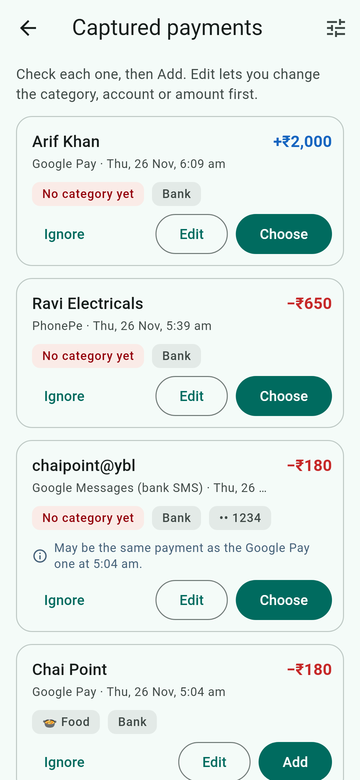
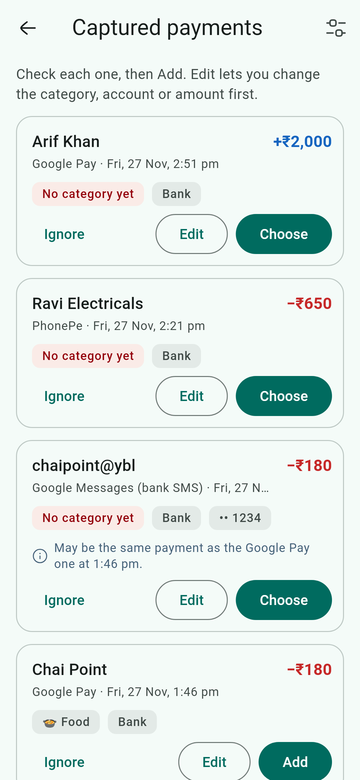
docs: refresh README screenshots and describe how capture works now

diff --git a/test_screens/screens_test.dart b/test_screens/screens_test.dart
@@ -200,7 +200,7 @@ class _FakeChannel extends CaptureChannel {
   @override
   bool get supported => true;
   @override
-  Future<bool> isEnabled() async => false;
+  Future<bool> isEnabled() async => true;
   @override
   Future<Set<String>?> packages() async => null;
   @override
@@ -217,6 +217,11 @@ void main() {
       tester.view.physicalSize = const Size(1080, 2340);
       tester.view.devicePixelRatio = 3;
       addTearDown(tester.view.reset);
+      // Draw screens as a finger sees them, without keyboard focus rings.
+      FocusManager.instance.highlightStrategy = FocusHighlightStrategy.alwaysTouch;
+      // Tests draw shadows as solid outlines; draw real ones as a phone does.
+      debugDisableShadows = false;
+      addTearDown(() => debugDisableShadows = true);
       late FinanceRepository repo;
       await tester.runAsync(() async {
         Intl.defaultLocale = 'en_IN';
@@ -346,7 +351,7 @@ void main() {
       await shot('21_insights');
       nav.push(MaterialPageRoute<void>(builder: (_) => const AutoBackupPage()));
       await shot('22_auto_backup');
-      await tester.drag(find.byType(ListView).last, const Offset(0, -700));
+      await tester.drag(find.byType(ListView).last, const Offset(0, -420));
       await shot('23_drive_backup');
     });
   }

diff --git a/README.md b/README.md
@@ -21,7 +21,7 @@
 <p align="center">
   <img src="docs/screenshots/daily.png" width="200" alt="Daily view">
   <img src="docs/screenshots/captured.png" width="200" alt="Captured payments">
-  <img src="docs/screenshots/stats.png" width="200" alt="Stats">
+  <img src="docs/screenshots/insights.png" width="200" alt="Monthly insights">
   <img src="docs/screenshots/daily-dark.png" width="200" alt="Daily view in dark mode">
 </p>
 
@@ -31,7 +31,7 @@
 |---|---|
 | 📸 **Screenshot** | Pick a Google Pay, PhonePe, Paytm or bank receipt. Gemini reads the amount, payee, date and UPI reference, or on-device OCR does when Gemini is off or offline, and the screenshot stays on the entry. A payment history screenshot adds every payment on it in one go, with ones you already have left unticked. The same UPI reference is never added twice. |
 | 🎙 **Voice** | Say *"paid 450 for lunch and 120 for auto in cash"* and get two drafts to check. Gemini writes down what you said, even in mixed English and Hindi, and the phone's own recogniser takes over offline. Understands rupees, k, thousand, lakh, lending and card bills. |
-| 🔔 **Notifications** | Google Pay, PhonePe, Paytm and BHIM payments, plus bank SMS if you switch it on, wait under Captured payments with the category already guessed. OTPs, requests, reminders and failed payments are dropped. |
+| 🔔 **Notifications** | Google Pay, PhonePe, Paytm and BHIM payments, plus bank SMS if you switch it on, wait under *More → Captured payments* as pending, with the category already guessed. Nothing is recorded until you tap **Add**, **Edit** or **Ignore**. Bank SMS are read in the shapes HDFC, SBI, ICICI, Axis and Canara use, including Canara's short *Dr.* and *Cr.*, so card and net-banking payments are caught too. The same payment seen in an app and in an SMS is flagged so you add it once, and SMS still in the notification shade are checked again when you open the app. OTPs, requests, reminders and failed payments are dropped. |
 | 📊 **Excel import** | Bring in a year of history from an `.xlsx` or `.csv` file. Columns are detected for you, you review how accounts and categories map before anything is written, and importing the same file again adds nothing. |
 
 ## Everything else
@@ -53,6 +53,14 @@
   <img src="docs/screenshots/calendar.png" width="180" alt="Calendar">
   <img src="docs/screenshots/recurring.png" width="180" alt="Recurring payments">
   <img src="docs/screenshots/budget-dark.png" width="180" alt="Budgets in dark mode">
+</p>
+
+<p align="center">
+  <img src="docs/screenshots/stats.png" width="180" alt="Stats">
+  <img src="docs/screenshots/goals.png" width="180" alt="Savings goals">
+  <img src="docs/screenshots/accounts.png" width="180" alt="Accounts">
+  <img src="docs/screenshots/backup.png" width="180" alt="Automatic backup to Google Drive">
+  <img src="docs/screenshots/capture-settings.png" width="180" alt="Payment capture settings in dark mode">
 </p>
 
 ## How the money works
@@ -220,4 +228,4 @@ On Android 13 and later, the notification access switch is greyed out for an APK
 
 ## Roadmap
 
-- **Capture on real devices.** The notification parser is tested against real message shapes, but the listener itself is still to be tried across phones and banks.
+- **Capture on more phones and banks.** It works on a real phone with Canara Bank SMS through Google Messages. Other banks' SMS are covered by tests built from their usual wording, but not yet tried on a phone.
